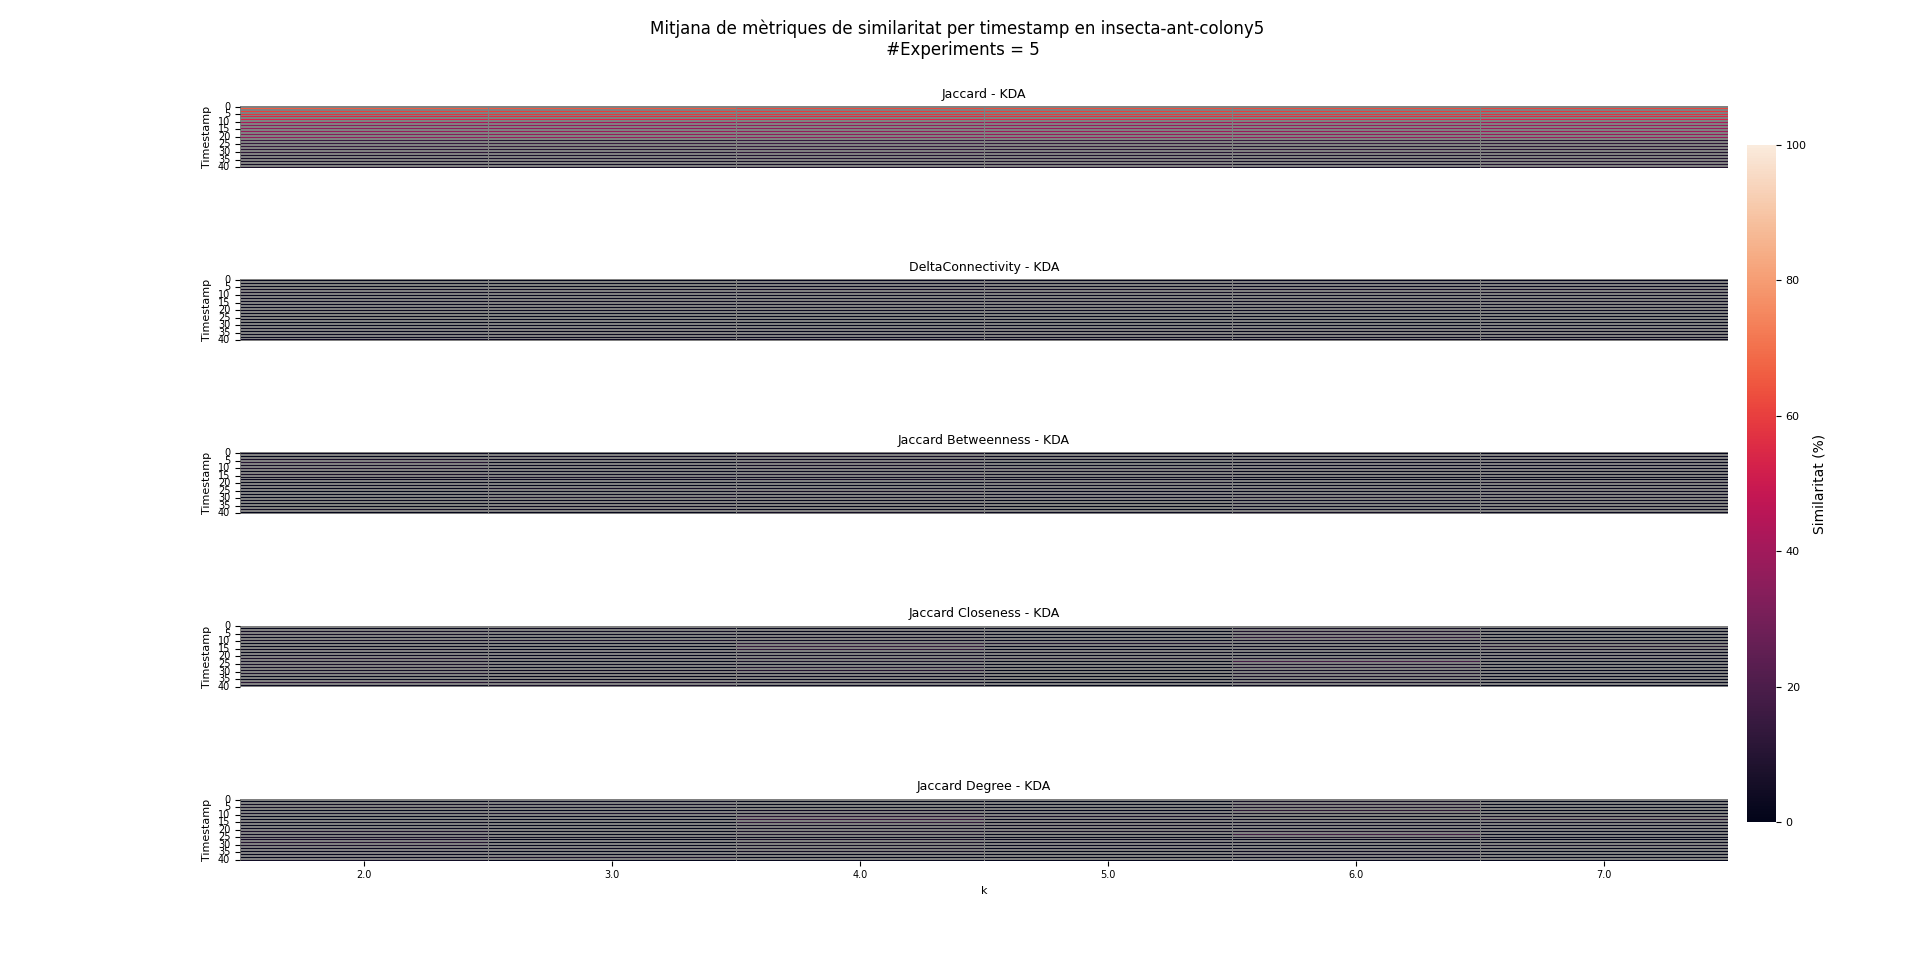
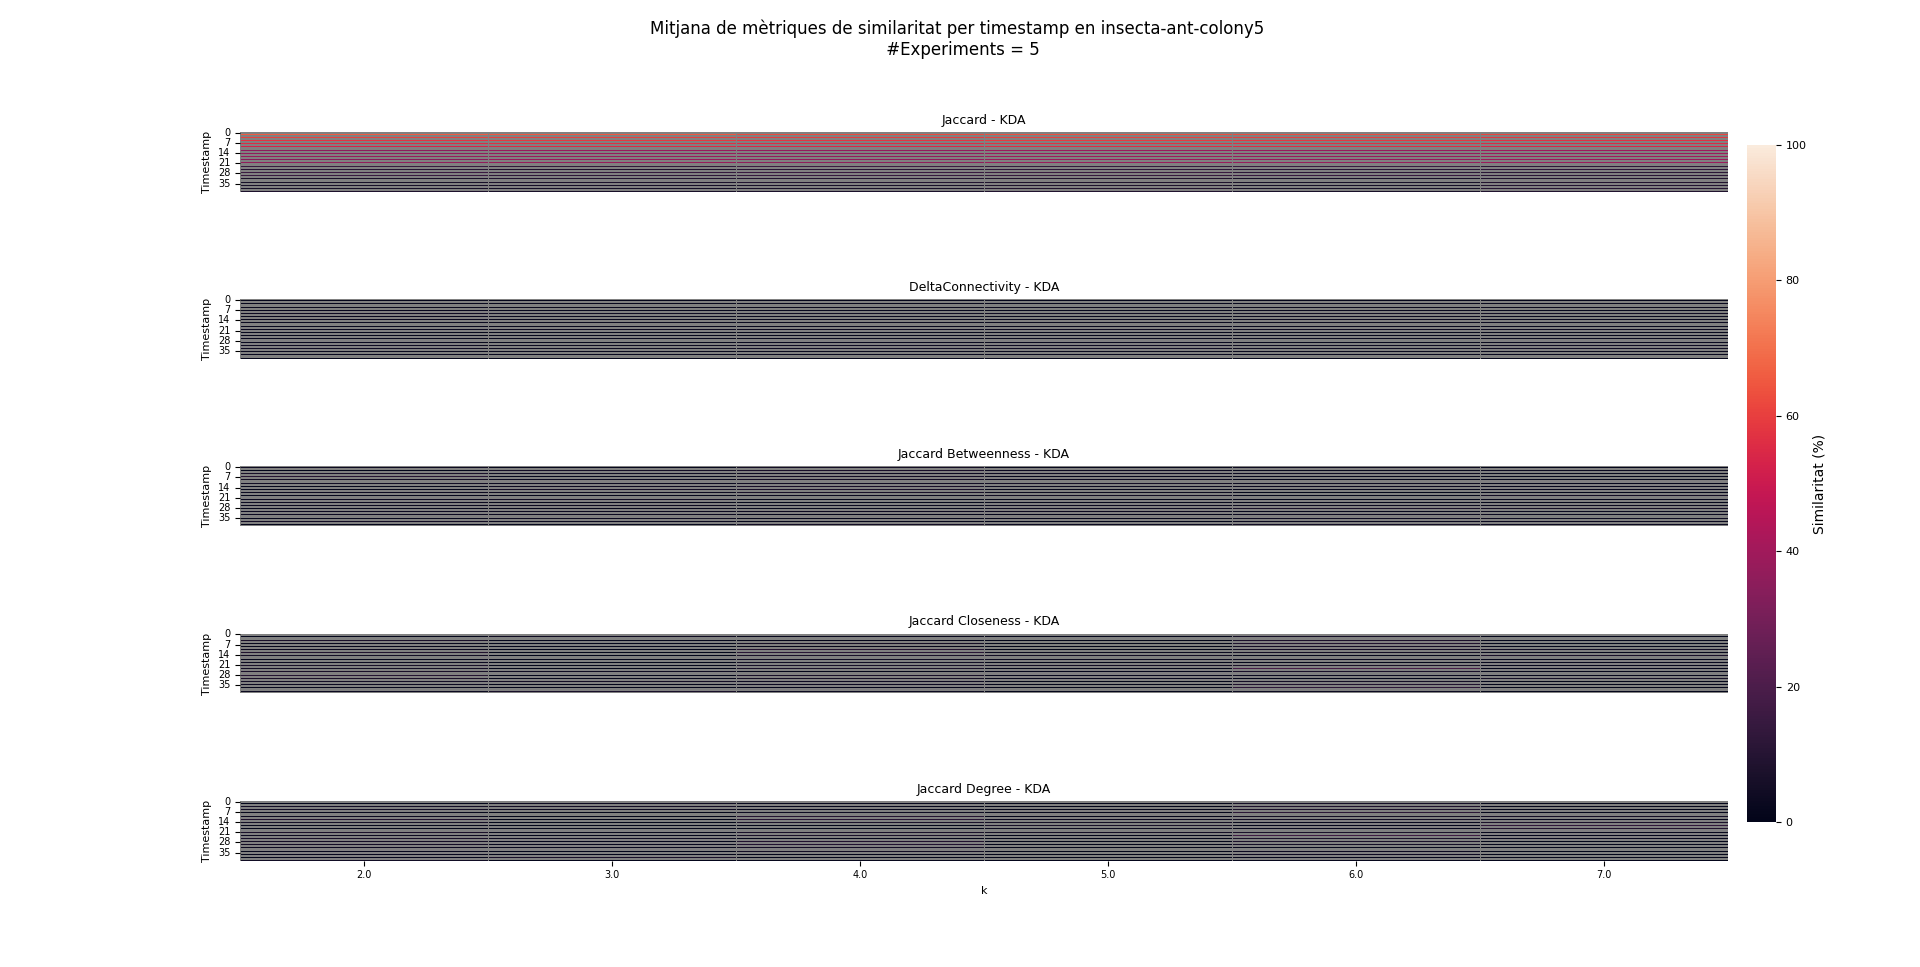
update README + images

diff --git a/code/metrics.py b/code/metrics.py
@@ -22,7 +22,7 @@ files = ['HOUR_CollegeMsg',
          'mammalia-voles-rob-trapping',
          'aves-sparrow-social'] 
 
-FILE = files[-1] # Posa el nom del fitxer que vols calcular/visualitzar les mètriques en cada mètode, en string
+FILE = files[-2] # Posa el nom del fitxer que vols calcular/visualitzar les mètriques en cada mètode, en string
 
 class Metrics:
     __slots__ = ()
@@ -98,7 +98,7 @@ class Metrics:
         # Calculem el coeficient de Jaccard i el retornem en forma de percentatge
         return (intersection / union)*100
 
-    def degreeMatrices(self, graph):
+    def degreeMatrix(self, graph):
         """Obtenir les matrius diagonals de graus del graf
 
         Args:
@@ -139,7 +139,7 @@ class Metrics:
         """
         identityMatrix = np.identity(graph.number_of_nodes())
         # print(f"Identity Matrix: {identityMatrix}")
-        degreeMatrix, maxDegree = self.degreeMatrices(graph)
+        degreeMatrix, maxDegree = self.degreeMatrix(graph)
         adjacencyMatrix = nx.to_numpy_array(graph)
         # print(f"Adjacency Matrix: {adjacencyMatrix}")
         influence = self.influenceNeighbors(maxDegree)
@@ -533,7 +533,7 @@ class Metrics:
             
         rows = len(all_metrics) * int(np.ceil(num_methods / cols))
 
-        fig, axes = plt.subplots(rows, cols, figsize=(cols * 4, rows * 2.5), squeeze=False)
+        fig, axes = plt.subplots(rows, cols, figsize=(cols * 5, rows * 2.5), squeeze=False)
         fig.suptitle(f"Mitjana de mètriques de similaritat per timestamp en {FILE} \n #Experiments = 5", fontsize=12)
         fig.subplots_adjust(hspace=0.4, wspace=0.1, top=0.95, right=0.9)
 
@@ -834,4 +834,4 @@ class Metrics:
 
 
 if __name__ == "__main__":
-    metric = Metrics(mode = 1)
+    metric = Metrics(mode = 2)

diff --git a/README.md b/README.md
@@ -87,7 +87,7 @@ La preocupació dels grafs temporals és que des del punt de vista d'un atacant,
 * Per ε-ELDP: Def 1. Def 2. Def 3. Proposition 1 [4]
     * Anàlisi: L'algorisme afegeix un soroll a cada graf que es conté de forma individual i paral·lelament, que compleix ε-Edge Local DP, i a part manté la densitat del graf original. Un atacant (només amb l'informació protegida) no pot treure informació dels grafs individuals, a causa de l'aletorietat del soroll afegit. És a dir, no pot conèixer si les relacions dels nodes són reals o no. Si es tenen tots els grafs protegits, de forma global només es pot arribar a saber quina era aproximadament la densitat mitjana dels grafs originals, ja que aquest algorisme permet preservar-la (afegir/treure soroll d'una forma anivellada). Ara bé, si es tenen els grafs originals, es pot arribar a veure a partir d'aquests quines són les relacions reals dels nodes, i es podria inferir quin soroll s'ha afegit de forma específica en cada graf. 
 
-* Per K-degree Anonimity: Esquema enforme anonimity, realizability i graph construction, def. graf realitzable [3], [11], [12].
+* Per K-degree Anonimity: Esquema enforme anonimity, realizability i graph construction, def. graf realitzable [3], [8], [9].
     * Anàlisi: Es basa en el principi de K-anonimitat, pels graus d'un graf. L'idea és fer que dintre d'un graf els graus es repeteixin almenys k vegades. Però, per grafs dinàmics s'ha de tenir en compte que també ha de ser indistingible el graf almenys k vegades, per assegurar que hi hagi incertesa. Hi ha tres etapes dintre del procés de K-anonimity: anonimity, realizability i graph construction. [3]. Anonimitzem cada seqüència de graus, comprovem que són graficables amb els principis de Erdös Gallai (que poden generar un graf simple), en cas de no ser-ho s'aproxima a la seqüència mínima distància, i per últim reconstruïm el graf amb Havel-Hakimi.
 
      
@@ -114,25 +114,22 @@ arXiv preprint arXiv:1805.01419, 2018. Disponible en: https://arxiv.org/abs/1805
 [7] B. Rozemberczki, Awesome Community Detection - Temporal Networks. GitHub. 
 Disponible en: https://github.com/benedekrozemberczki/awesome-community-detection/blob/master/chapters/temporal.md. [Darrer accés: 26-feb-2025]. 
 
-[8] P. Sarkar, D. Chakrabarti i M. Jordan, "Nonparametric Link Prediction in Dynamic Networks", arXiv preprint arXiv:1206.6394, 2012.
-Disponible en: https://arxiv.org/pdf/1206.6394. [Darrer accés: 2-mar-2025].
+[8] "Havel–Hakimi algorithm", Wikipedia, l'enciclopèdia lliure. Disponible en: https://en.wikipedia.org/wiki/Havel%E2%80%93Hakimi_algorithm. [Darrer accés: 13-abr-2025].
 
-[9] X. Li, N. Du, H. Li, K. Li, J. Gao i A. Zhang, "Deep Learning Approach to Link Prediction in Dynamic Networks", SIAM, 2014.
-Disponible en: https://epubs.siam.org/doi/pdf/10.1137/1.9781611973440.33. [Darrer accés: 2-mar-2025].
+[9] "Erdős–Gallai theorem", Wikipedia, l'enciclopèdia lliure. Disponible en: https://en.wikipedia.org/wiki/Erd%C5%91s%E2%80%93Gallai_theorem. [Darrer accés: 14-abr-2025].
 
-[10] J. You, T. Du, J. Leskovec "ROLAND: Graph Learning Framework for Dynamic Graphs", Conference on Knowledge Discovery and Data Mining, 2022. 
-Disponible en: https://arxiv.org/pdf/2208.07239 [Darrer accés: 6-mar-2025] 
+[10] D. Koutra, J. T. Vogelstein i C. Faloutsos, "DeltaCon: A Principled Massive-Graph Similarity Function with Attribution", SIAM International Conference on Data Mining (SDM), 2013. Disponible en: https://web.eecs.umich.edu/~dkoutra/papers/DeltaCon_KoutraVF_withAppendix.pdf. [Darrer accés: 19-abril-2025]. 
 
-[11] "Havel–Hakimi algorithm", Wikipedia, l'enciclopèdia lliure. Disponible en: https://en.wikipedia.org/wiki/Havel%E2%80%93Hakimi_algorithm. [Darrer accés: 13-abr-2025].
+[11] H. Qin, R.-H. Li, G. Wang, X. Huang, Y. Yuan i J. X. Yu, "Mining Stable Communities in Temporal Networks by Density-Based Clustering", IEEE Transactions on Big Data, vol. 8, núm. 3, pp. 671–684, 1 juny 2022. Disponible en: https://doi.org/10.1109/TBDATA.2020.2974849. [Darrer accés: 4-maig-2025].
 
-[12] "Erdős–Gallai theorem", Wikipedia, l'enciclopèdia lliure. Disponible en: https://en.wikipedia.org/wiki/Erd%C5%91s%E2%80%93Gallai_theorem. [Darrer accés: 14-abr-2025].
+>[8] P. Sarkar, D. Chakrabarti i M. Jordan, "Nonparametric Link Prediction in Dynamic Networks", arXiv preprint arXiv:1206.6394, 2012.
+>Disponible en: https://arxiv.org/pdf/1206.6394. [Darrer accés: 2-mar-2025].
 
-[13] https://journals.plos.org/plosone/article?id=10.1371%2Fjournal.pone.0228728 -- 19/04
+>[14] J. You, T. Du, J. Leskovec "ROLAND: Graph Learning Framework for Dynamic Graphs", Conference on Knowledge Discovery and Data Mining, 2022. 
+> Disponible en: https://arxiv.org/pdf/2208.07239 [Darrer accés: 6-mar-2025] 
 
-[14] https://web.eecs.umich.edu/~dkoutra/papers/DeltaCon_KoutraVF_withAppendix.pdf?utm_source=chatgpt.com -- 19/04
-
-[15] H. Qin, R. -H. Li, G. Wang, X. Huang, Y. Yuan and J. X. Yu, "Mining Stable Communities in Temporal Networks by Density-Based Clustering," in IEEE Transactions on Big Data, vol. 8, no. 3, pp. 671-684, 1 June 2022, doi: 10.1109/TBDATA.2020.2974849. -- 04/05
-
+>[9] X. Li, N. Du, H. Li, K. Li, J. Gao i A. Zhang, "Deep Learning Approach to Link Prediction in Dynamic Networks", SIAM, 2014.
+>Disponible en: https://epubs.siam.org/doi/pdf/10.1137/1.9781611973440.33. [Darrer accés: 2-mar-2025].
 
 > F. Beck, M. Burch, S. Diehl i D. Weiskopf, "The State of the Art in Visualizing Dynamic Graphs", 
 > Eurographics Conference on Visualization (EuroVis) - State of The Art Report, 2014. 
